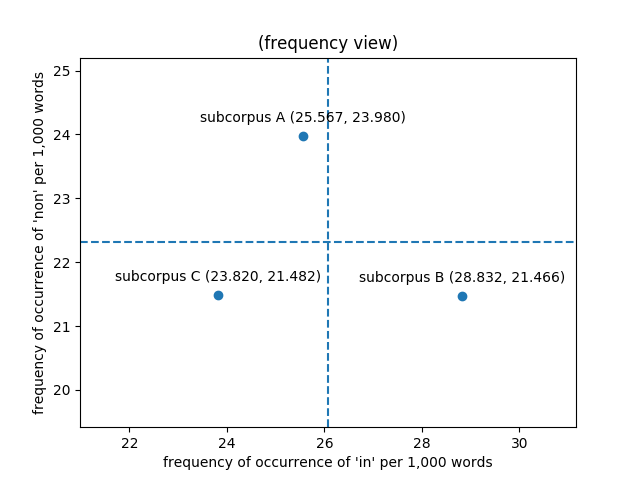
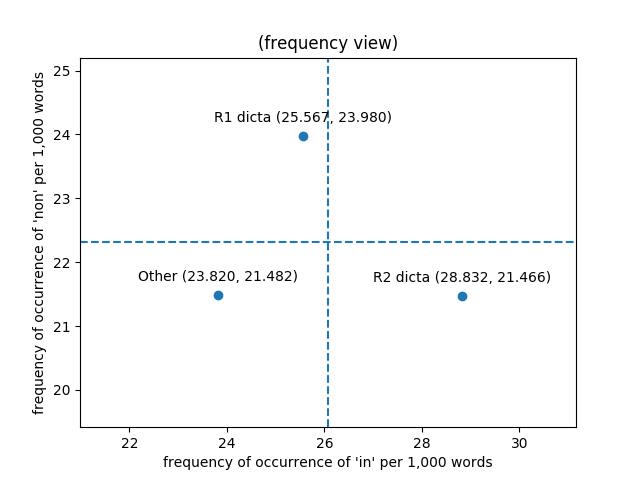
Generate new plots for visualization section

Changed region(s): [[0.3125, 0.2188, 0.625, 0.2812], [0.5625, 0.5625, 0.875, 0.5938], [0.1875, 0.5625, 0.5, 0.5938]]

diff --git a/Chapter4/bin/visualize3.py b/Chapter4/bin/visualize3.py
@@ -17,9 +17,9 @@ def stats(word, data):
     frequency_mean = statistics.mean(frequency_values)
     standard_deviation = statistics.stdev(frequency_values)
     filler = f'occurrences of \'{word}\' per 1,000 words'
-    print(f'{frequency_A:7.4f} {filler} (subcorpus A)')
-    print(f'{frequency_B:7.4f} {filler} (subcorpus B)')
-    print(f'{frequency_C:7.4f} {filler} (subcorpus C)')
+    print(f'{frequency_A:7.4f} {filler} (R1 dicta)')
+    print(f'{frequency_B:7.4f} {filler} (R2 dicta)')
+    print(f'{frequency_C:7.4f} {filler} (Other)')
     print(f'{frequency_mean:7.4f} {filler} (mean)')
     print(f'{standard_deviation:7.4f} {filler} (standard deviation)')
     return (frequency_A, frequency_B, frequency_C, frequency_mean, standard_deviation)
@@ -38,21 +38,21 @@ def f_plot(x_word, x_frequencies, y_word, y_frequencies):
     pp.ylabel(f'frequency of occurrence of \'{y_word}\' per 1,000 words')
     # common
     pp.annotate(
-        f'subcorpus A ({value_x_A:.3f}, {value_y_A:.3f})',
+        f'R1 dicta ({value_x_A:.3f}, {value_y_A:.3f})',
         (value_x_A, value_y_A),
         textcoords="offset points",
         xytext=(0,10),
         ha='center'
     )
     pp.annotate(
-        f'subcorpus B ({value_x_B:.3f}, {value_y_B:.3f})',
+        f'R2 dicta ({value_x_B:.3f}, {value_y_B:.3f})',
         (value_x_B, value_y_B),
         textcoords="offset points",
         xytext=(0,10),
         ha='center'
     )
     pp.annotate(
-        f'subcorpus C ({value_x_C:.3f}, {value_y_C:.3f})',
+        f'Other ({value_x_C:.3f}, {value_y_C:.3f})',
         (value_x_C, value_y_C),
         textcoords="offset points",
         xytext=(0,10),
@@ -85,21 +85,21 @@ def z_plot(x_word, x_frequencies, y_word, y_frequencies):
     pp.ylabel(f'\'{y_word}\'', rotation='horizontal')
     # common
     pp.annotate(
-        f'subcorpus A ({value_x_A:.3f}, {value_y_A:.3f})',
+        f'R1 dicta ({value_x_A:.3f}, {value_y_A:.3f})',
         (value_x_A, value_y_A),
         textcoords="offset points",
         xytext=(0,10),
         ha='center'
     )
     pp.annotate(
-        f'subcorpus B ({value_x_B:.3f}, {value_y_B:.3f})',
+        f'R2 dicta ({value_x_B:.3f}, {value_y_B:.3f})',
         (value_x_B, value_y_B),
         textcoords="offset points",
         xytext=(0,10),
         ha='center'
     )
     pp.annotate(
-        f'subcorpus C ({value_x_C:.3f}, {value_y_C:.3f})',
+        f'Other ({value_x_C:.3f}, {value_y_C:.3f})',
         (value_x_C, value_y_C),
         textcoords="offset points",
         xytext=(0,10),
